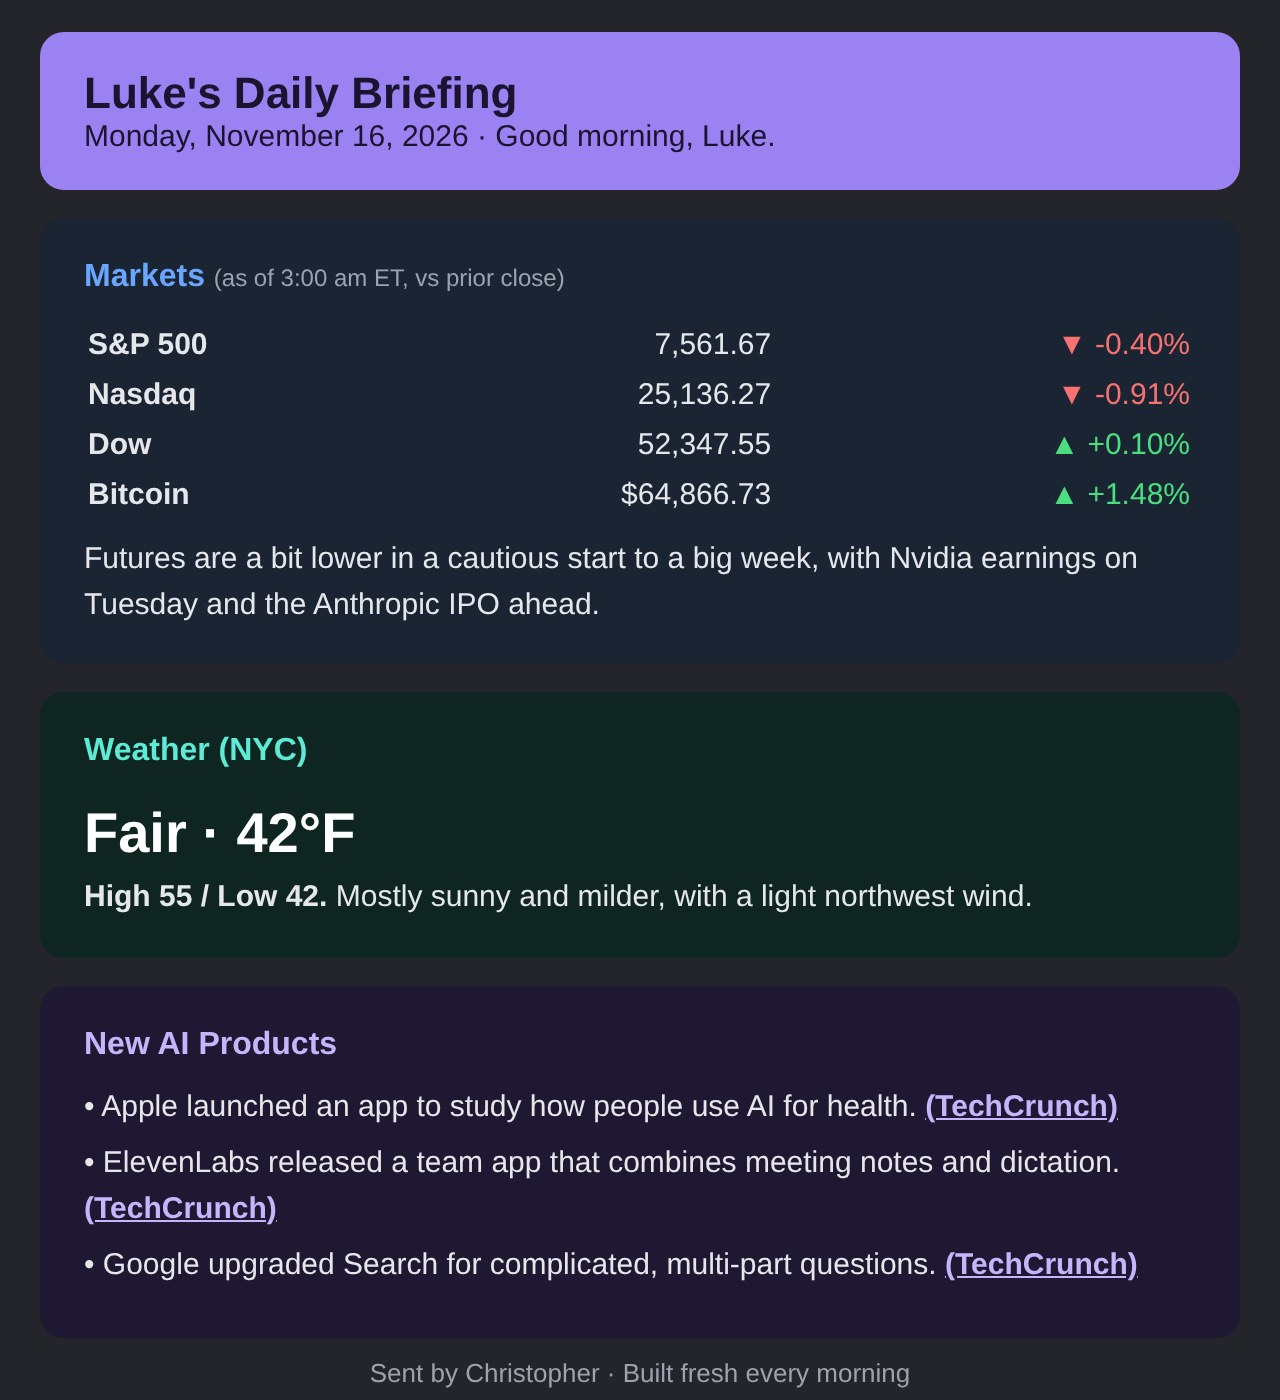
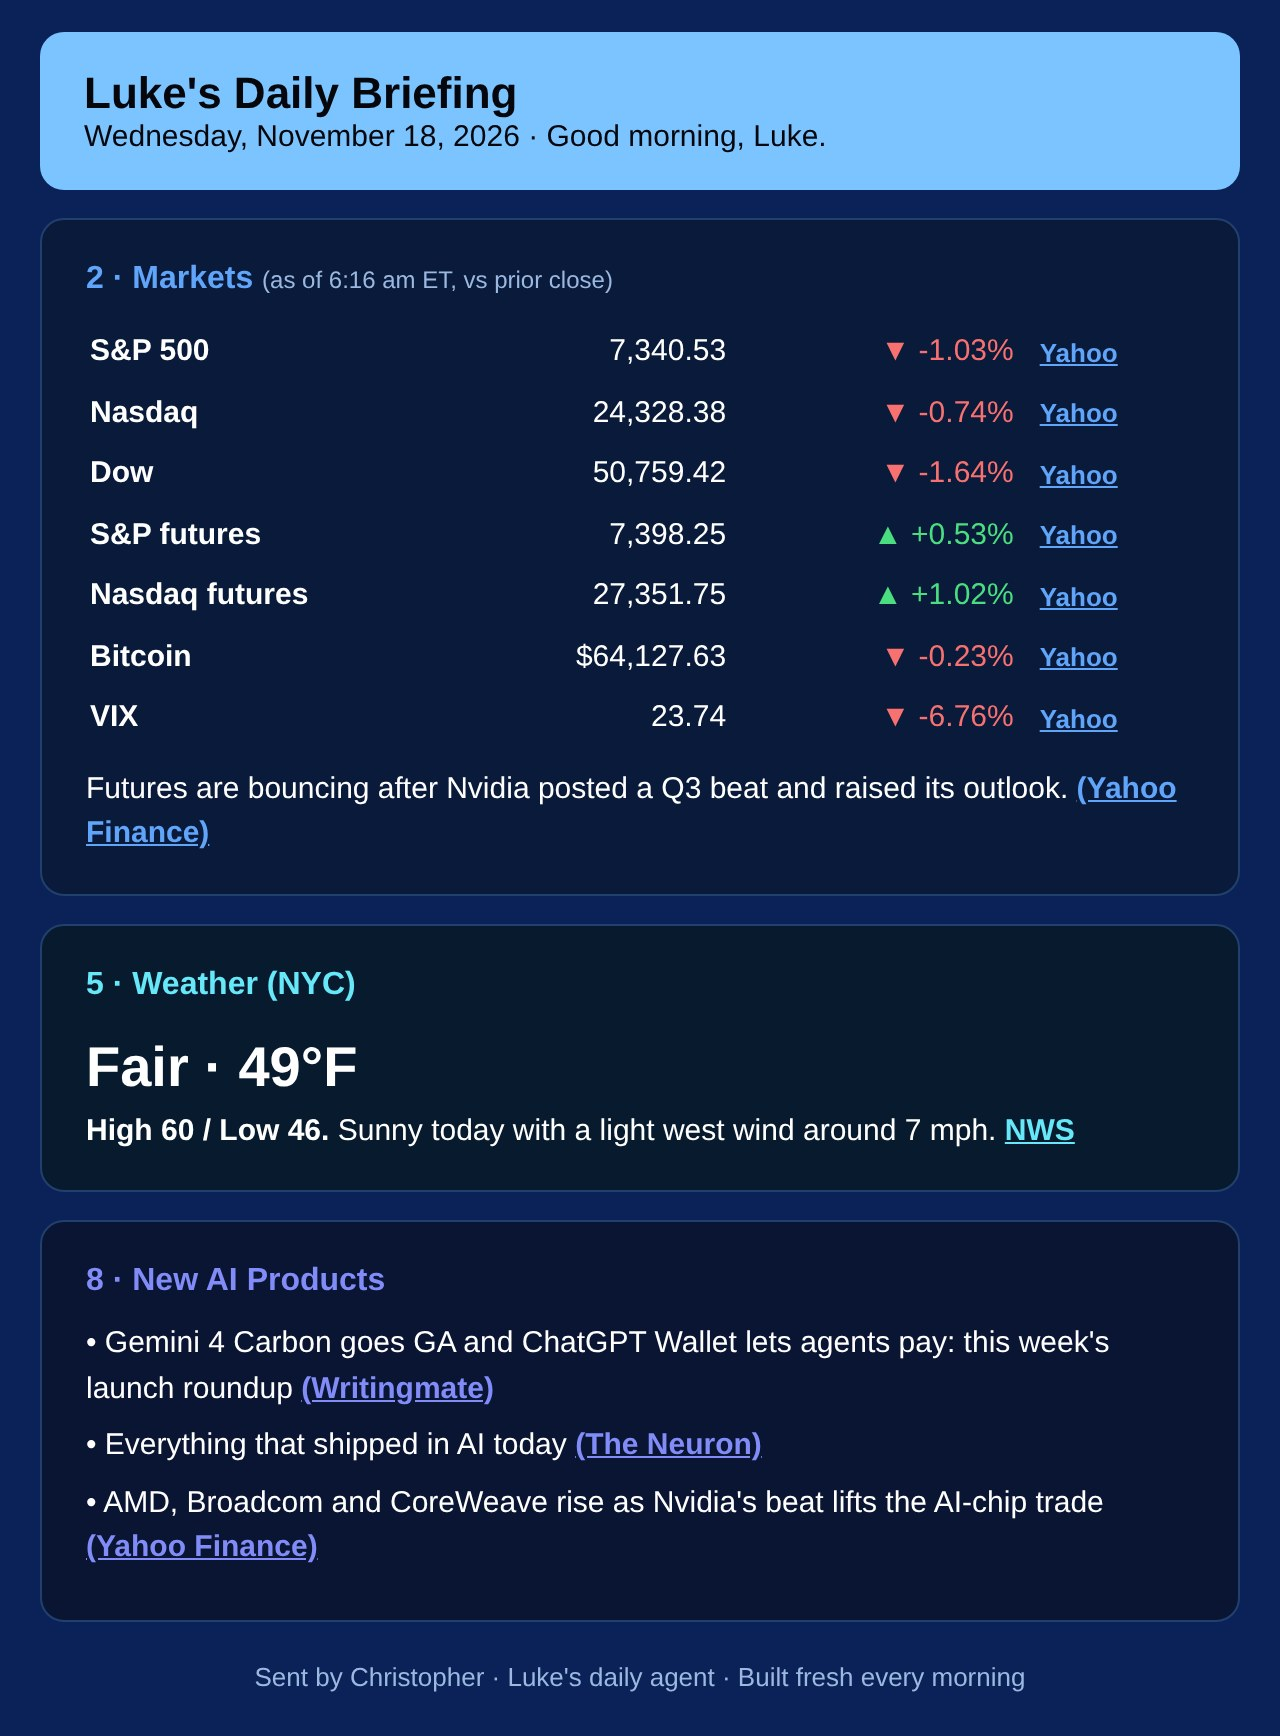
2x AI: briefing sample in new dark blue theme
Claude-Session: https://claude.ai/code/session_01X5Te7hKioqEeTYv53LswKt

diff --git a/2x-ai/index.html b/2x-ai/index.html
@@ -48,7 +48,7 @@
   .shot{background:var(--card);border:1px solid var(--line);border-radius:16px;overflow:hidden;display:flex;flex-direction:column}
   .shot video,.shot img{width:100%;display:block;background:#000}
   .shot .media{flex:1;display:flex;align-items:center;justify-content:center;background:#000}
-  .shot.brief .media{background:#23252a;max-height:520px;overflow:hidden;align-items:flex-start}
+  .shot.brief .media{background:#0a2257;max-height:620px;overflow:hidden;align-items:flex-start}
   .shot .cap{padding:16px 18px;border-top:1px solid var(--line)}
   .shot .cap b{display:block;font-size:16px}
   .shot .cap span{font-size:13.5px;color:var(--muted)}
@@ -172,7 +172,7 @@
       <div class="cap"><b>AI video ad · Long Strange Trip podcast</b><span>A fully AI-generated promo spot for the Long Strange Trip podcast, made by 2x AI.</span></div>
     </div>
     <div class="shot brief">
-      <div class="media"><img src="briefing.jpg" alt="A 2x AI daily briefing email with markets, weather and AI news"></div>
+      <div class="media"><img src="briefing.jpg?v=1118" alt="A 2x AI daily briefing email with markets, weather and AI news"></div>
       <div class="cap"><b>Daily briefing · lands every morning</b><span>A real 2x AI briefing: markets, weather and the news that matters, in one email.</span></div>
     </div>
   </div>
